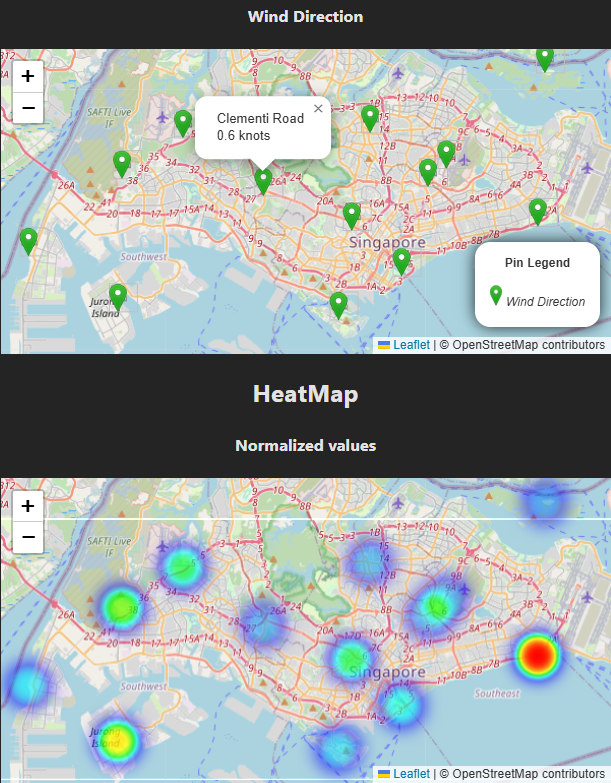
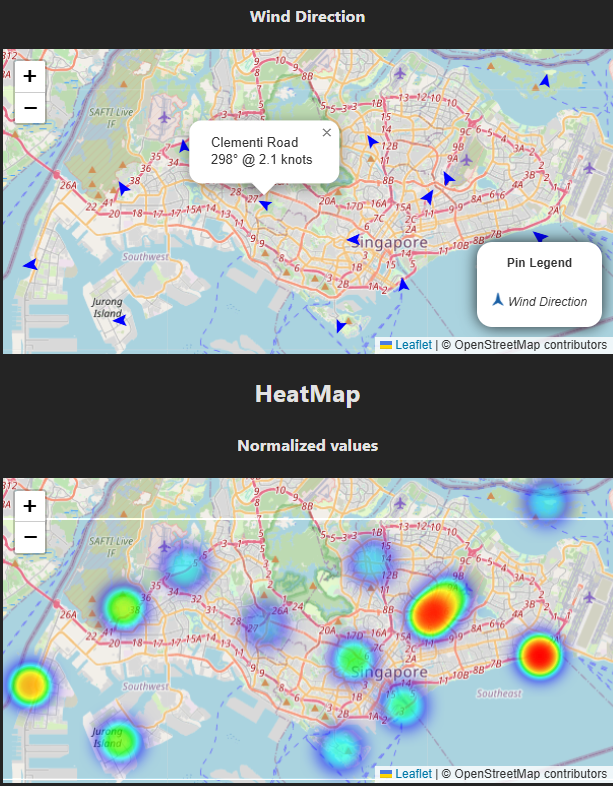
add images to readme

diff --git a/README.md b/README.md
@@ -64,8 +64,16 @@ npm run dev
 
 3. Added normalized heatmap as the raw values are either to small or clamped together in a certain range.
    
+   <u>Humidity Map</u>
    ![Alt text](./images/sample_weather_local_humidity.png)
 
+   <u>Rainfall Map</u>
+   ![Alt text](./images/sample_weather_local_rainfall.png)
+
+   <u>Temperature Map</u>
    ![Alt text](./images/sample_weather_local_temperature.png)
 
+4. Modified wind direction to include arrow head instead of pins
+
+   <u>Wind speed & direction Map</u>
    ![Alt text](./images/sample_weather_local_wind_speed.png)
